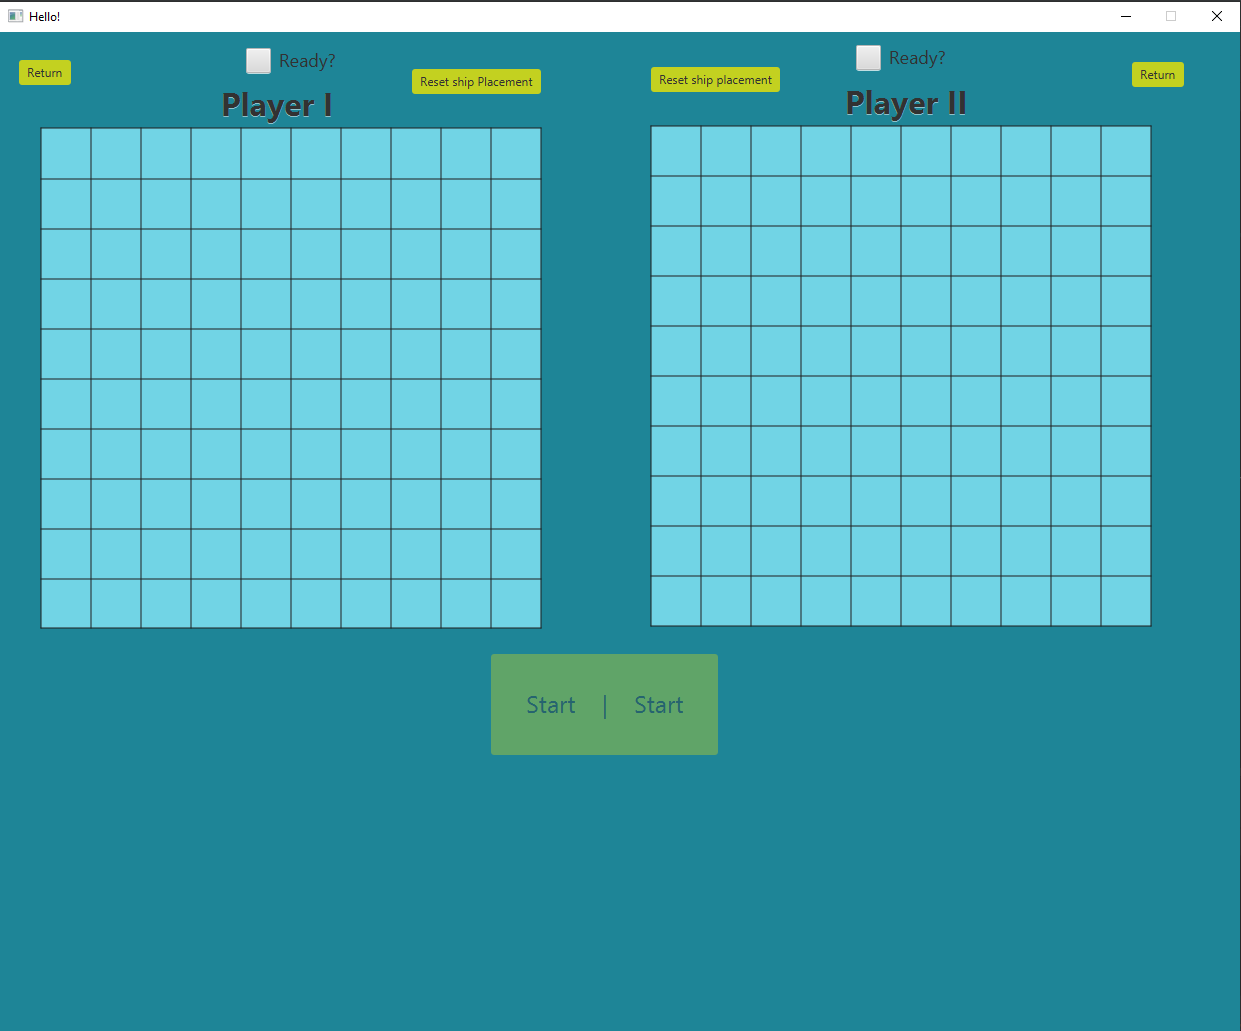
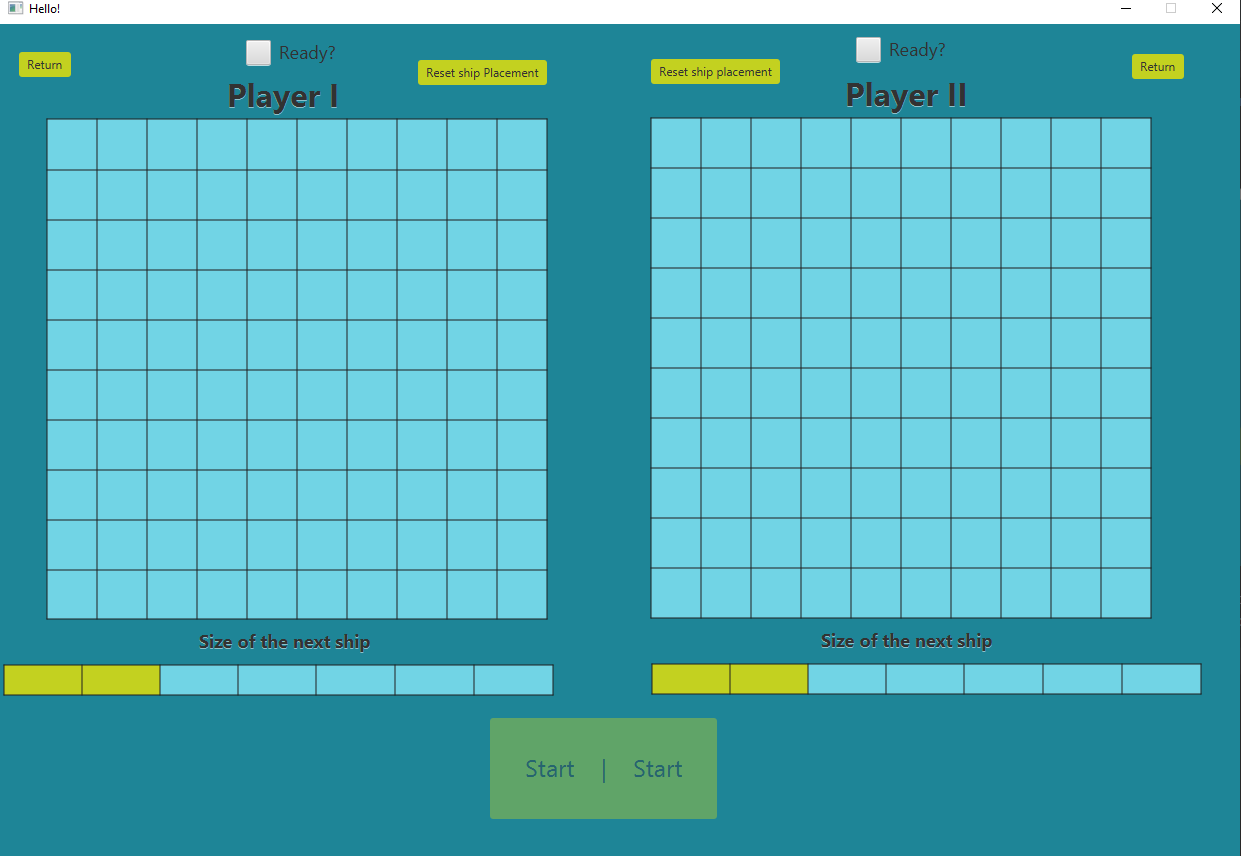
README.md korekta

diff --git a/README.md b/README.md
@@ -18,7 +18,8 @@
  <p>or exit game</p>
 
 ## Player vs Ai
- <p>First player must place his/her ships on the board. It is possible to do using mouse, player can place ships with left click and rotate them using right click</p>
+<p>First player must place his/her ships on the board. It is possible to do using mouse, player can place ships with left click and rotate them using right click</p>
+<p>Below board player can see size of his next ship</p>
 <p align="center">
     <img src="images/plshipsPVA.png" alt="Screenshot">
 </p>
